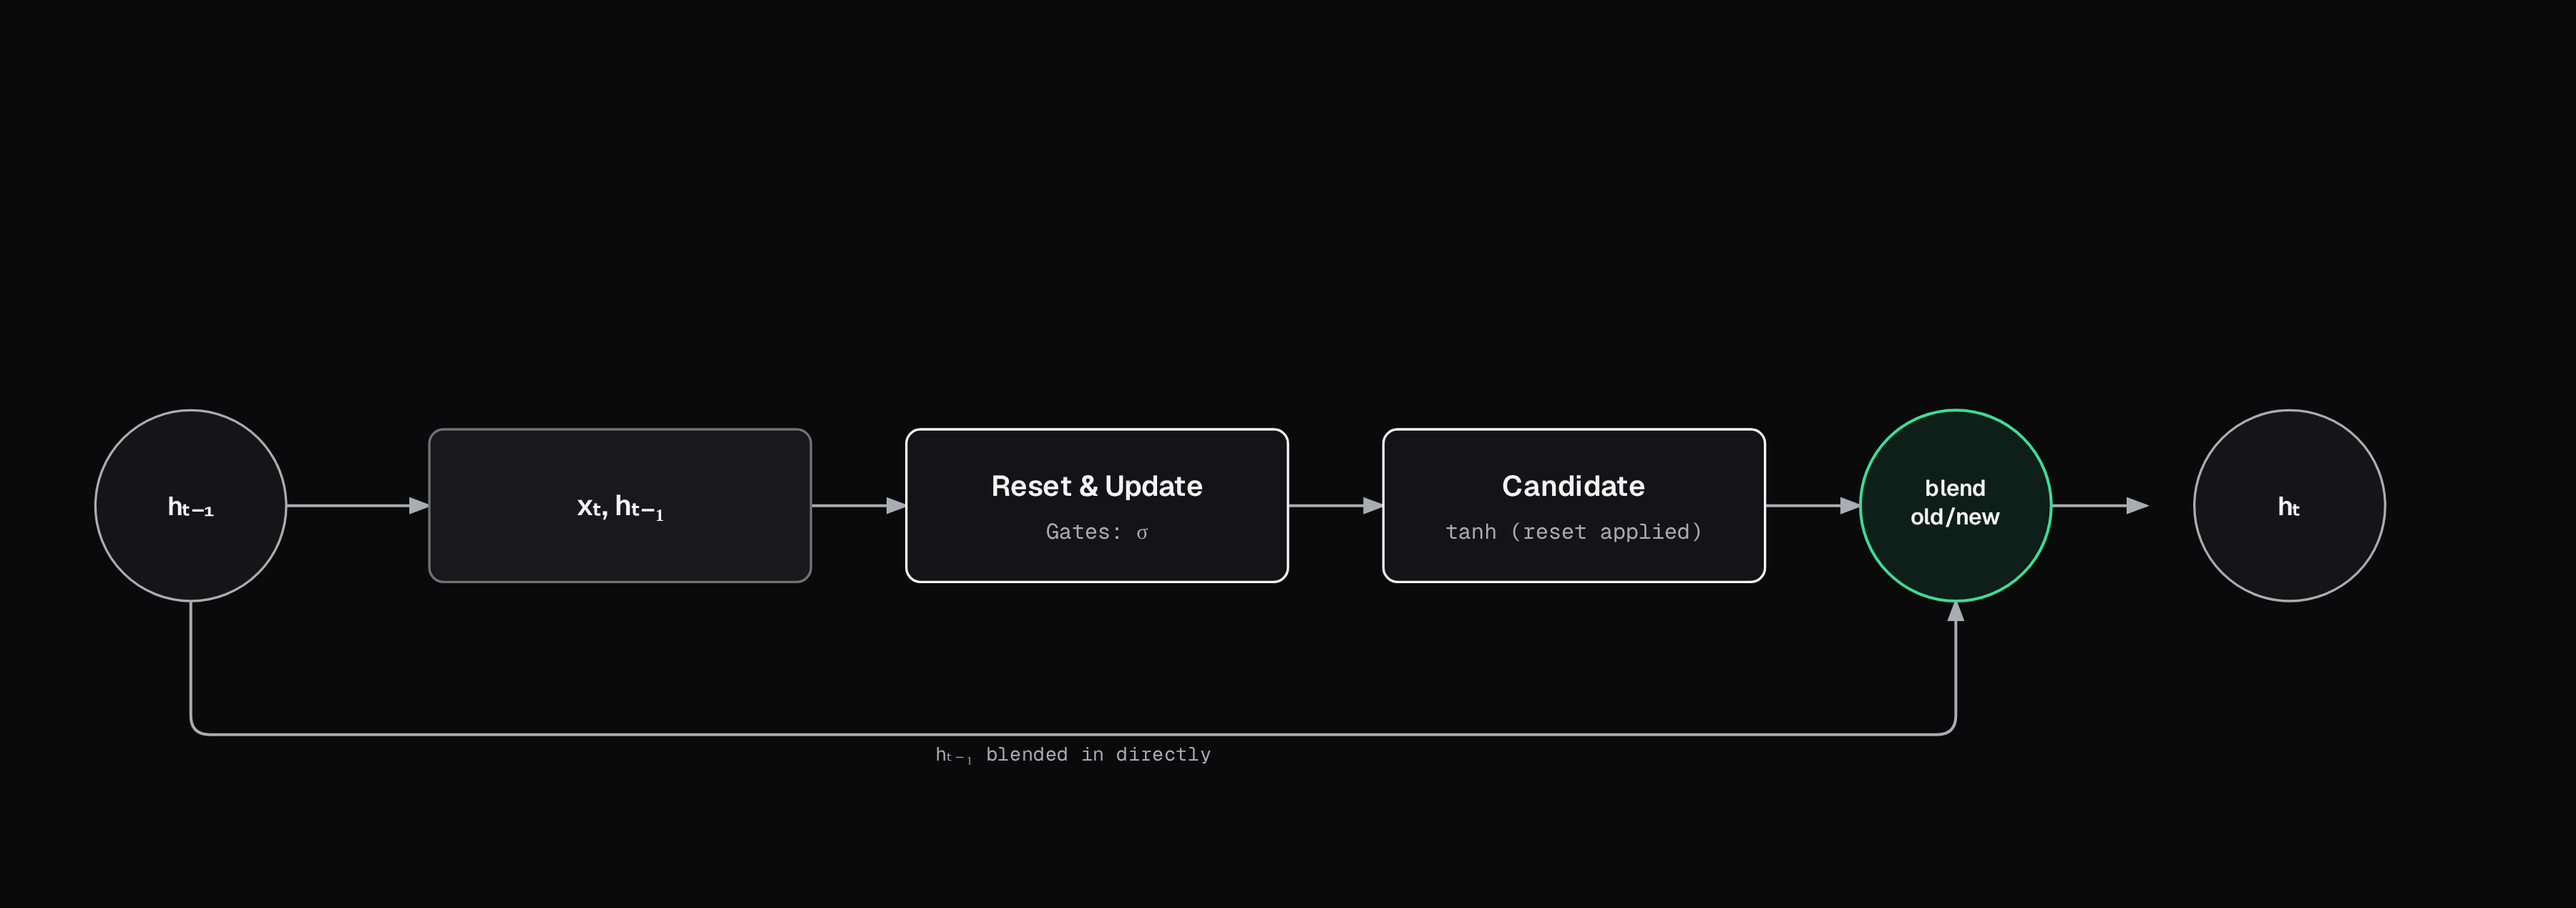
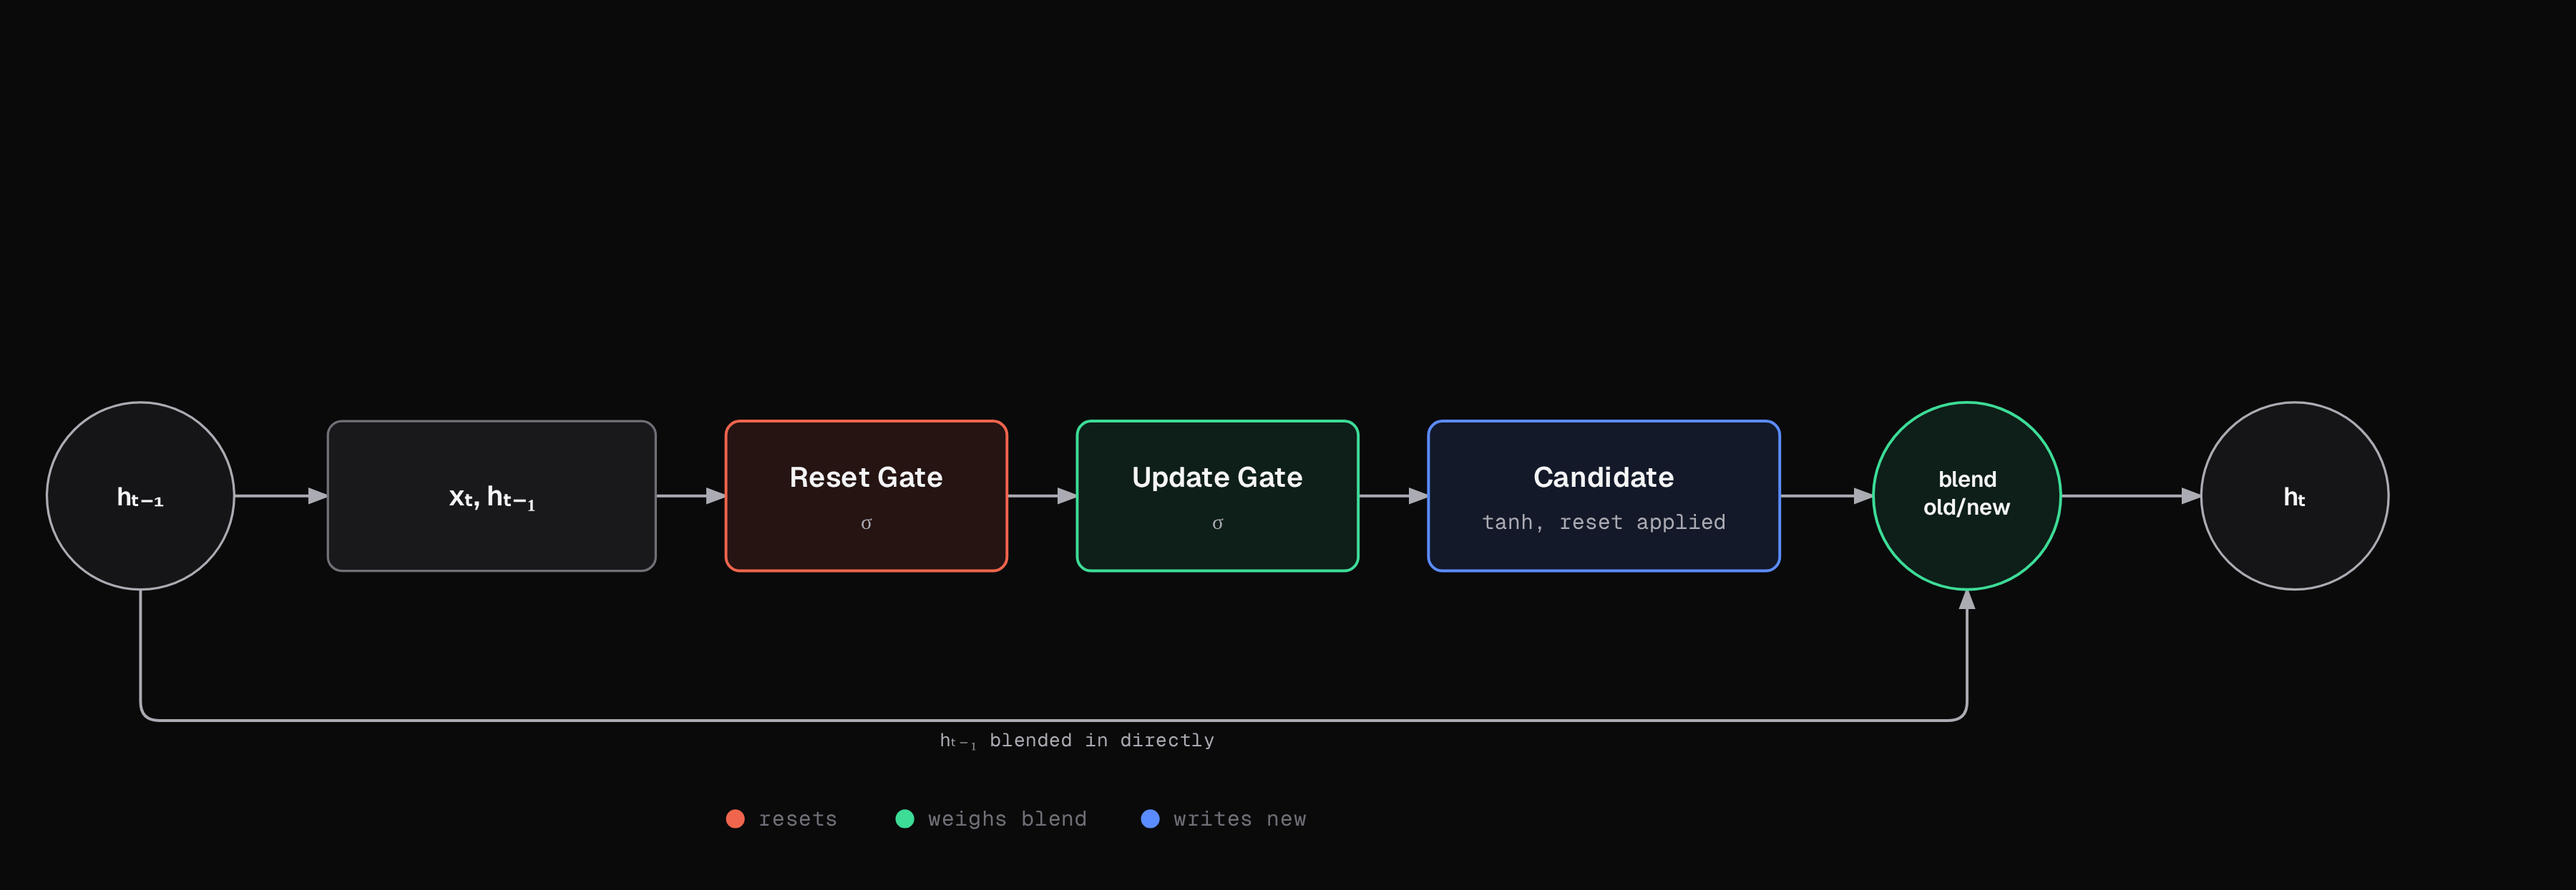
Fix LSTM/GRU equation formatting, color-code gate diagrams
Each LSTM/GRU equation was missing a blank line before/after it,
collapsing all six (four) equations into one run-on inline block
that wrapped mid-equation instead of stacking one per line. Now each
equation gets its own labeled paragraph. Also swaps in the
diagram-design skill's newly color-coded LSTM/GRU cell diagrams
(red=discard, blue=write-new, green=reveal/blend) in place of the
previous uniform-gray version.

diff --git a/docs/deep-learning/sequence-models.md b/docs/deep-learning/sequence-models.md
@@ -39,23 +39,51 @@ The same weight matrices $W_h$, $W_x$, $b$ are reused at *every* time step — t
 
 **LSTM (Long Short-Term Memory)** introduces a separate "cell state" $c_t$ plus three gates — forget, input, output — that explicitly control what information gets added, kept, or discarded at each step, each one its own small learned layer:
 
-$$f_t = \sigma\left(W_f [h_{t-1}, x_t] + b_f\right) \qquad \text{forget gate}$$
-$$i_t = \sigma\left(W_i [h_{t-1}, x_t] + b_i\right) \qquad \text{input gate}$$
-$$o_t = \sigma\left(W_o [h_{t-1}, x_t] + b_o\right) \qquad \text{output gate}$$
-$$\tilde{c}_t = \tanh\left(W_c [h_{t-1}, x_t] + b_c\right) \qquad \text{candidate values}$$
-$$c_t = f_t \odot c_{t-1} + i_t \odot \tilde{c}_t \qquad \text{new cell state}$$
-$$h_t = o_t \odot \tanh(c_t) \qquad \text{new hidden state}$$
+**Forget gate** — how much of the old cell state to keep:
 
-where $[h_{t-1}, x_t]$ is the previous hidden state concatenated with the current input, and $\odot$ is the **Hadamard (elementwise) product** — each gate is a vector of values in $(0,1)$ that scales its target *elementwise*, not a full matrix multiply. Read the two middle lines directly as the whole mechanism: the forget gate decides how much of the old cell state to keep, the input gate decides how much of the new candidate to add — both are $\sigma$-gated so each is a soft "keep this fraction" decision per dimension, computed fresh every time step by the gates above.
+$$f_t = \sigma\left(W_f [h_{t-1}, x_t] + b_f\right)$$
+
+**Input gate** — how much of the new candidate to add:
+
+$$i_t = \sigma\left(W_i [h_{t-1}, x_t] + b_i\right)$$
+
+**Output gate** — how much of the cell state to reveal as the hidden state:
+
+$$o_t = \sigma\left(W_o [h_{t-1}, x_t] + b_o\right)$$
+
+**Candidate values** — new content proposed for the cell state:
+
+$$\tilde{c}_t = \tanh\left(W_c [h_{t-1}, x_t] + b_c\right)$$
+
+**New cell state** — forget the old, add the new, both gated:
+
+$$c_t = f_t \odot c_{t-1} + i_t \odot \tilde{c}_t$$
+
+**New hidden state** — the output gate reveals part of the (squashed) cell state:
+
+$$h_t = o_t \odot \tanh(c_t)$$
+
+where $[h_{t-1}, x_t]$ is the previous hidden state concatenated with the current input, and $\odot$ is the **Hadamard (elementwise) product** — each gate is a vector of values in $(0,1)$ that scales its target *elementwise*, not a full matrix multiply. Read the new-cell-state and new-hidden-state lines directly as the whole mechanism: the forget gate decides how much of the old cell state to keep, the input gate decides how much of the new candidate to add — both are $\sigma$-gated so each is a soft "keep this fraction" decision per dimension, computed fresh every time step by the gates above.
 
 ![LSTM cell — forget, input, and output gates controlling what's added to, kept in, and read from the cell state](./img/lstm-cell.png)
 
 **GRU (Gated Recurrent Unit)** simplifies LSTM's gating into two gates instead of three (reset and update, no separate cell state), with fewer parameters and often comparable performance — a common practical choice when compute is limited:
 
-$$z_t = \sigma\left(W_z [h_{t-1}, x_t] + b_z\right) \qquad \text{update gate}$$
-$$r_t = \sigma\left(W_r [h_{t-1}, x_t] + b_r\right) \qquad \text{reset gate}$$
-$$\tilde{h}_t = \tanh\left(W_h [r_t \odot h_{t-1}, x_t] + b_h\right) \qquad \text{candidate hidden state}$$
-$$h_t = (1 - z_t) \odot h_{t-1} + z_t \odot \tilde{h}_t \qquad \text{new hidden state}$$
+**Update gate** — how much of the old hidden state to keep vs. replace with the new candidate:
+
+$$z_t = \sigma\left(W_z [h_{t-1}, x_t] + b_z\right)$$
+
+**Reset gate** — how much of the old hidden state to use when computing the new candidate:
+
+$$r_t = \sigma\left(W_r [h_{t-1}, x_t] + b_r\right)$$
+
+**Candidate hidden state** — new content proposed, with the reset gate applied to the old state first:
+
+$$\tilde{h}_t = \tanh\left(W_h [r_t \odot h_{t-1}, x_t] + b_h\right)$$
+
+**New hidden state** — interpolate between old and candidate, weighted by the update gate:
+
+$$h_t = (1 - z_t) \odot h_{t-1} + z_t \odot \tilde{h}_t$$
 
 The last line is a direct interpolation between the old hidden state and the new candidate, controlled entirely by $z_t$ — no separate cell state to maintain, which is exactly where GRU's parameter savings come from. The reset gate $r_t$ decides how much of the *old* hidden state gets used when computing the new candidate in the first place.
 
